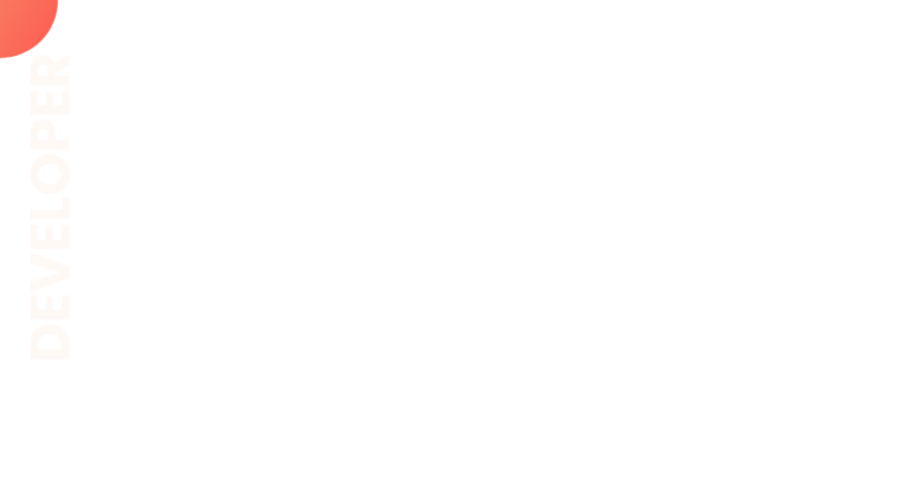
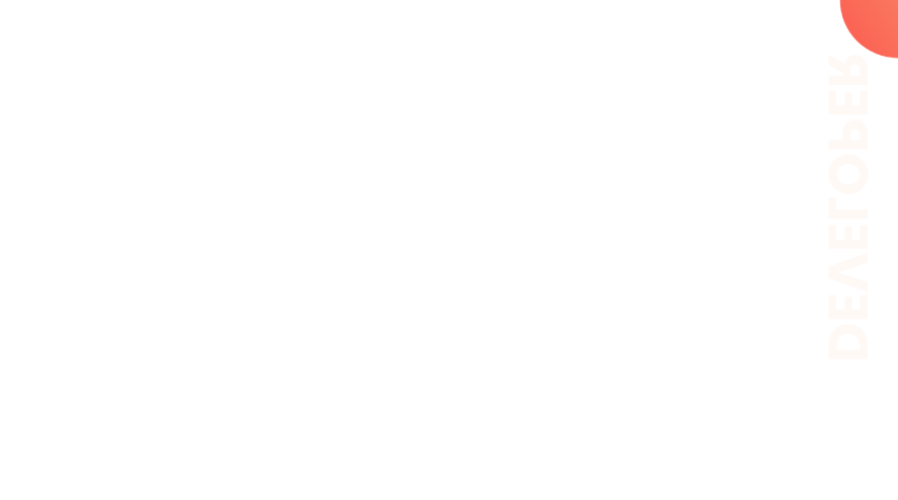
first second part

Changed region(s): [[0.9354, 0.0, 1.0, 0.12], [0.0, 0.0, 0.0624, 0.12]]

diff --git a/index.html b/index.html
@@ -15,7 +15,7 @@
 <body>
     <section class="top-banner">
         <div class="half-width">
-            <img src="images/picture1.png" alt="">
+            <img class="first-image" src="images/picture1.png" alt="">
         </div>
         <div class="half-width">
             <h1 class="first-detail">Welcome To</h1>
@@ -32,6 +32,22 @@
                 movies. I also enjoy listening to music. My goal is to be a computer programmer in the future.<br><br>
                 <a class="link-button" target="_blank" href="https://www.linkedin.com/in/fatenayeam/">HIRE ME</a>
             </p>
+        </div>
+    </section>
+
+    <section class="dream-big">
+        <div class="second-half">
+            <h1>Dream Big</h1>
+            <h2>Became a Web Developer</h2>
+            <p>I already learned the basic HTML and CSS. I can build any simple website. I can even teach my friend how
+                to make simple website. My goal is to build unknown amount of websites and learn advanced
+                topics.<br><br>
+                <a class="link-button2" target="_blank" href="https://www.linkedin.com/in/fatenayeam/">DOWNLOAD
+                    RESUME</a>
+            </p>
+        </div>
+        <div class="second-half">
+            <img src="images/picture2.png" alt="">
         </div>
     </section>
 </body>

diff --git a/style.css b/style.css
@@ -22,6 +22,7 @@ h1
 section
 {
     display: flex;
+    margin-bottom: 50px;
 }
 
 .half-width
@@ -33,7 +34,6 @@ section
 .half-width img
 {
     width: 80%;
-    padding-top: 3%;
 }
 
 .link-button
@@ -49,5 +49,35 @@ section
 .top-banner
 {
     background-image: url(images/top-banner.png);
+    background-repeat: no-repeat;
+    background-position: right;
+}
+
+.second-half
+{
+    width: 50%;
+    padding-left: 2%;
+}
+
+.second-half img
+{
+    width: 80%;
+    padding-top: 2%;
+    margin-left: 90px;
+}
+
+.link-button2
+{
+    text-decoration: none;
+    background-image: linear-gradient(#f88466, #f53c3c);
+    padding: 10px 40px;
+    color: white;
+    font-weight: 700;
+    border-radius: 5px;
+}
+
+.dream-big
+{
+    background-image: url(images/dream-bg.png);
     background-repeat: no-repeat;
 }
